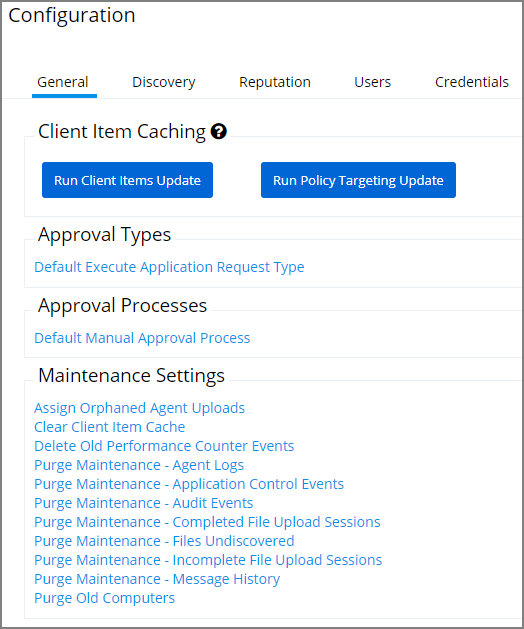
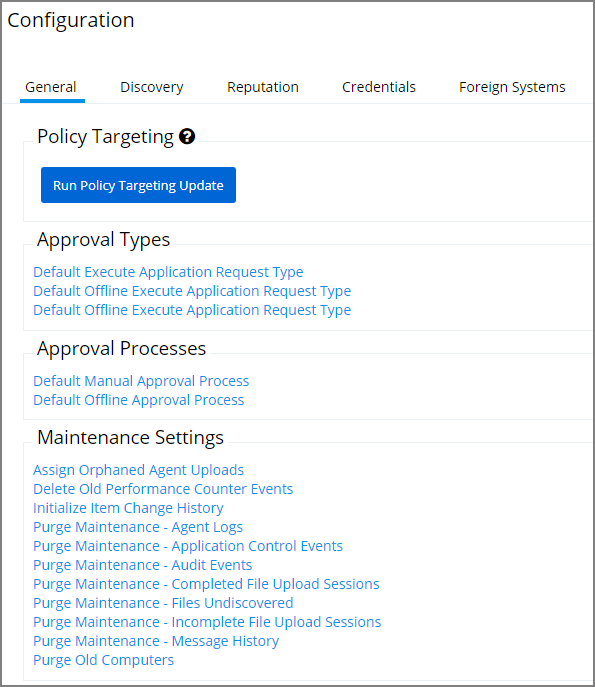
updated screen capture and added information and links to the maintenance.md contents

diff --git a/ui/config/general/index.md b/ui/config/general/index.md
@@ -3,22 +3,37 @@
 [priority]: # (2100)
 # General Tab
 
+The General Tab provides a quick access to Privilege Manager Maintenance tasks and job settings.
 ![General tab overview](images/config-gen/general.png)
 
-## Client Item Caching
+## Policy Targeting
 
-The Client Items Update caches policies, filters, actions, and other agent items.
-
-The Policy Targeting Update caches the list of policies applicable to each agent by updating the collections and resource targets.
+The Policy Targeting Update automatically caches the list of policies applicable to each agent by updating the collections and resource targets. 
 
 ## Approval Types
 
-TODO
+For approval types can be specified as policy or file specific, a Security Rating System can be added, and a Process Handler can be entered. The following default approval types are available:
+
+* Default Execute Application Request Type
+* Default Offline Execute Application Request Type
 
 ## Approval Processes
 
-TODO
+These are read-only items and by default Administrators are always allowed to approve any requests and an optionally an activity can be started as part of the approval.
 
-## Maintenance Settings
+* Default Manual Approval Process
+* Default Offline Approval Process
 
-TODO
+## [Maintenance Settings](../../../tasks/maintenance.md)
+
+* [Assign Orphaned Agent Uploads](../../../tasks/maintenance.md#assign_orphaned_agent_uploads)
+* [Delete Old Performance Counter Events](../../../tasks/maintenance.md#delete_old_performance_counter_events)
+* [Initialize Item Change History](../../../tasks/maintenance.md#initialize_item_change_history)
+* [Purge Maintenance - Agent Logs](../../../tasks/maintenance.md#purge_maintenance___agent_logs)
+* [Purge Maintenance - Application Events](../../../tasks/maintenance.md#purge_maintenance___application_control_events)
+* [Purge Maintenance - Audit Events](../../../tasks/maintenance.md#purge_maintenance___audit_events)
+* [Purge Maintenance - Completed File Upload Sessions](../../../tasks/maintenance.md#purge_maintenance___completed_file_upload_sessions)
+* [Purge Maintenance - Files Undiscovered](../../../tasks/maintenance.md#purge_maintenance___files_undiscovered)
+* [Purge Maintenance - Incomplete File Upload Sessions](../../../tasks/maintenance.md#purge_maintenance___incomplete_file_upload_sessions)
+* [Purge Maintenance - Message History](../../../tasks/maintenance.md#purge_maintenance___message_history)
+* [Purge Old Computers](../../../tasks/maintenance.md#purge_old_computers)

diff --git a/tasks/maintenance.md b/tasks/maintenance.md
@@ -29,13 +29,23 @@ This task will assign agent event uploads that have been orphaned.
 
 __Parameters__: Max records [default setting = 2500]
 
-### Clear Client Item Cache
+<!-- with 10.7: by default ### Clear Client Item Cache
 
 This server task will clear entries from the Client Item Cache that are older than the time period specified.
 
 __Parameters__: Delete Message History older than [default setting = 30 day(s)]
 
-__Notes__: This is mainly a diagnostics tool and should not need to be scheduled.
+__Notes__: This is mainly a diagnostics tool and should not need to be scheduled. -->
+
+### Delete Old Performance Counter Events
+
+This task will delete internal performance counter events last updated before the specified time.
+
+__Parameters__: Can be set to Seconds, Minutes, Hours, Days, and Weeks. The default is 1 Day.
+
+### Initialize Item Change History
+
+This task is run after installs to ensure items with change tracking enabled have initial history entries.
 
 ### Purge Agent and Gauge Data for Deleted Computers
 
@@ -48,6 +58,12 @@ __Notes__: This can be helpful to run, to remove unwanted data for computers tha
 Remove duplicate computers.
 
 __Notes__: When AD sync occurs, Privilege Manager creates a new object in the database for each computer object. When the agent is installed, it references this same object. If the agent is installed before AD sync occurs, there can be 2 different objects in the database for the same machine. This task merges the duplicate objects and is usually only needed when agents are installed before a computer comes in from AD sync.
+
+### Purge Maintenance - Agent Logs
+
+This server task will remove all Agent Log data that is older than the time period specified.
+
+__Parameters__: Can be set to Seconds, Minutes, Hours, Days, and Weeks. The default is 1 Week.
 
 ### Purge Maintenance - Application Control Events
 
